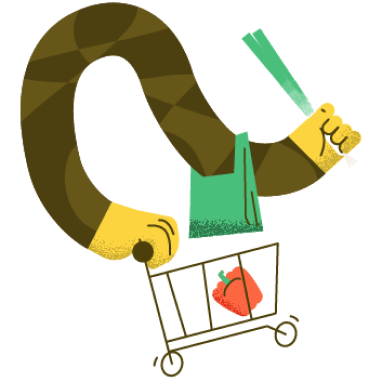
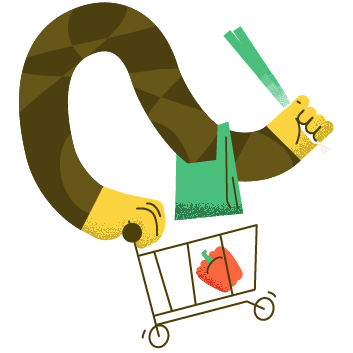
update images

diff --git a/frontend/src/Components/Requirement.js b/frontend/src/Components/Requirement.js
@@ -17,6 +17,7 @@ import cuisine_4 from "../Images/Cuisine/cuisine_4.png"
 import cuisine_5 from "../Images/Cuisine/cuisine_5.png"
 import cuisine_6 from "../Images/Cuisine/cuisine_6.png"
 import cuisine_7 from "../Images/Cuisine/cuisine_7.png"
+import requirement from "../Images/requirement.png"
 
 const content = {
     "title": "室友的奇襲！！！",
@@ -45,7 +46,14 @@ const Page = styled('div')(({ theme }) => ({
 }));
 
 const headerContainer = css`
-    margin: 16px 0px 0px 0px;
+    margin: 20px 0px 0px 0px;
+`
+const headerImageContainer = css`
+    width: 90%;
+    display: block;
+    margin-top: 20px;
+    margin-left: auto;
+    margin-right: auto;
 `
 
 const bodyContainer = css`
@@ -145,6 +153,7 @@ const Requirement = () => {
         <ThemeProvider theme={theme}>
             <Page> 
                 <Header _returnLink={ content.hrefPrev } _loading={loadingItems}>
+                    <img src={ requirement } className={`${headerImageContainer}`} />
                     <div className={`${headerContainer}`}>
                         <Typography variant="h1" color={theme.palette.secondary.contrastText} sx={{ fontWeight: '900' }}>
                             { content.title }
